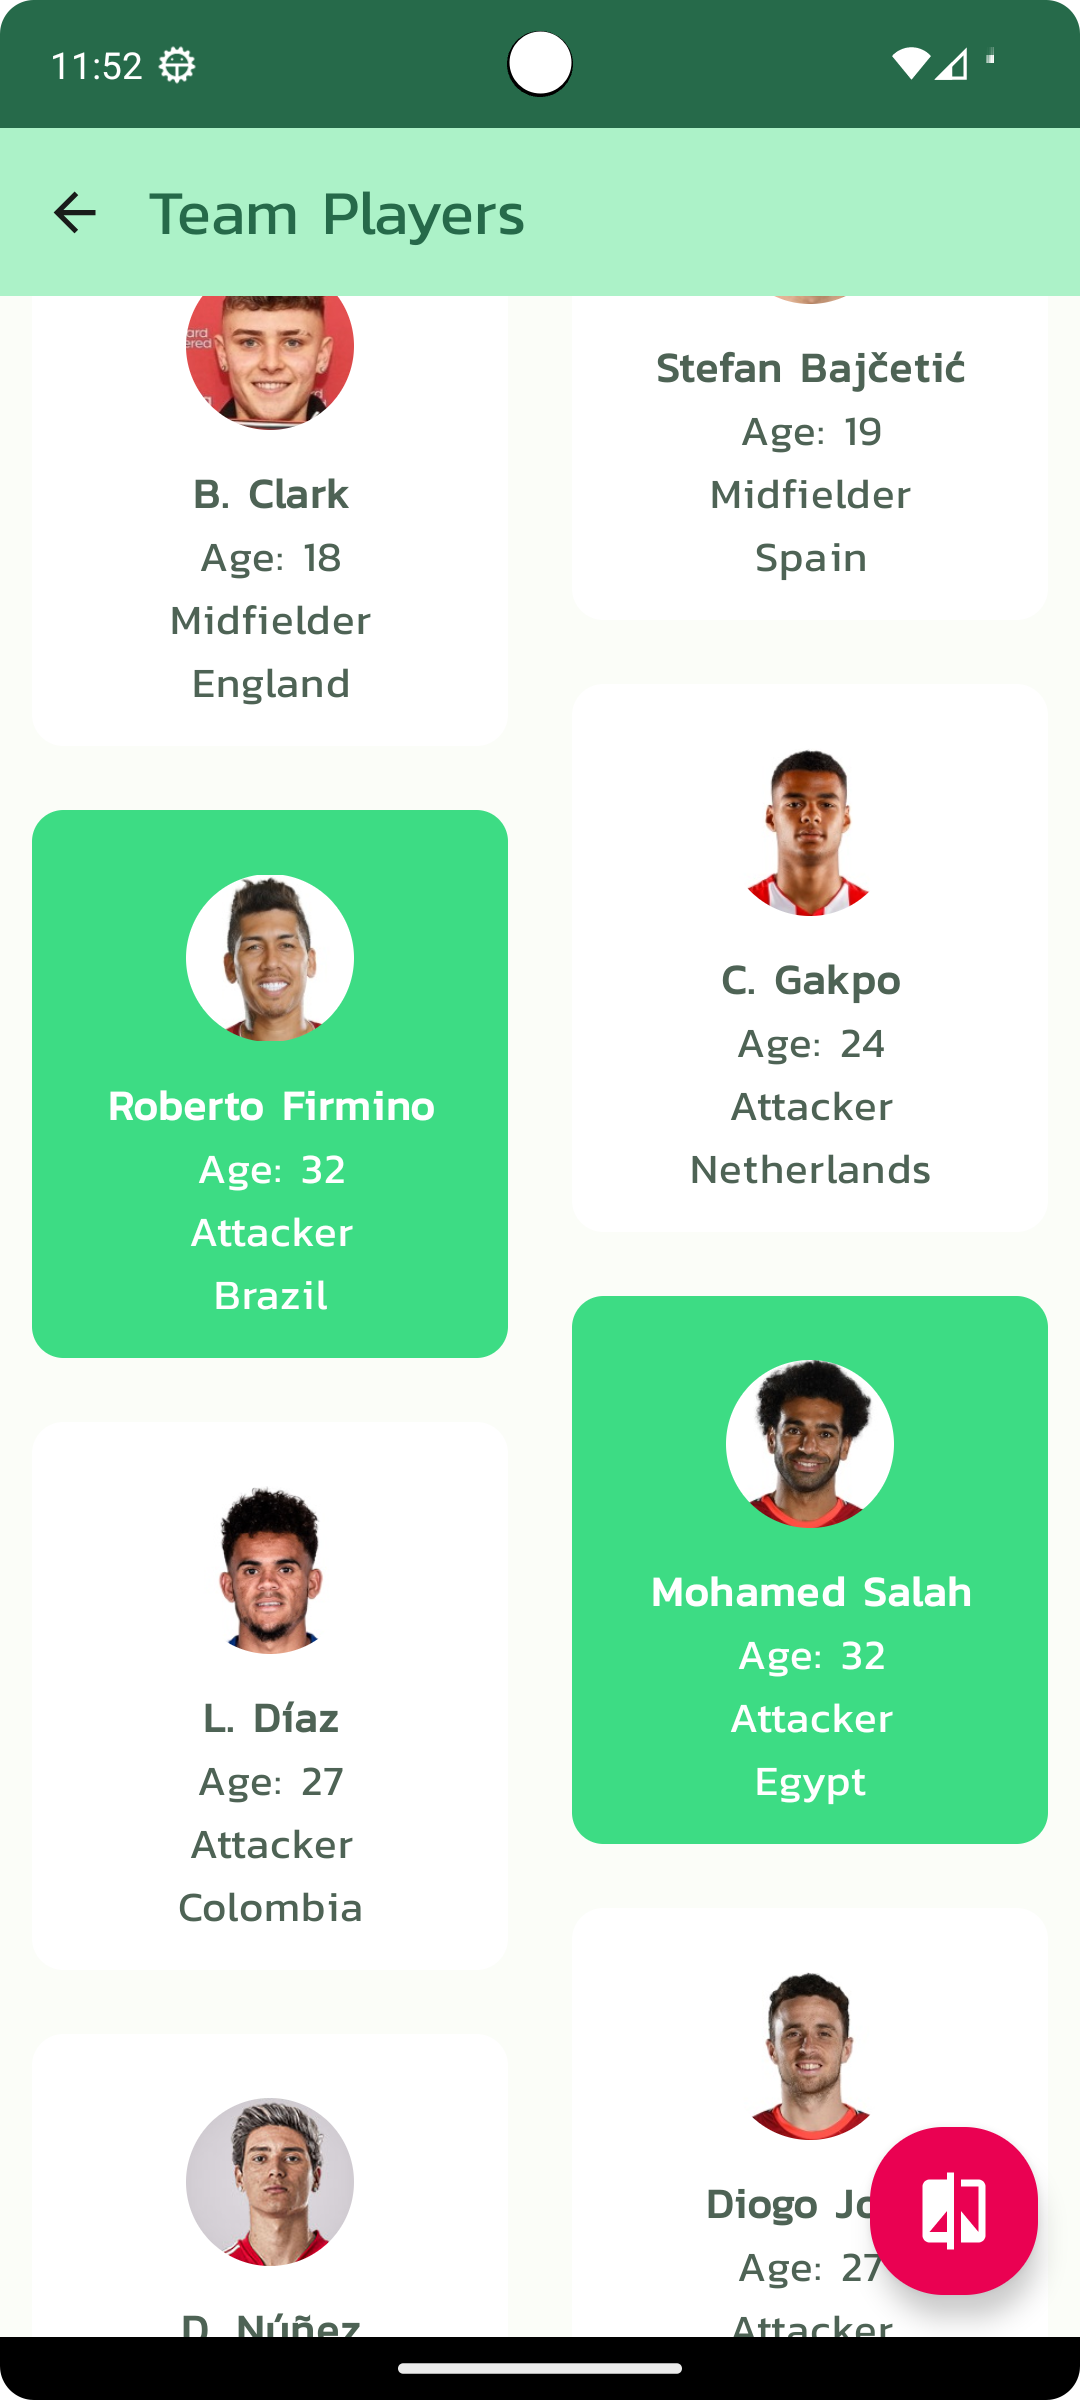
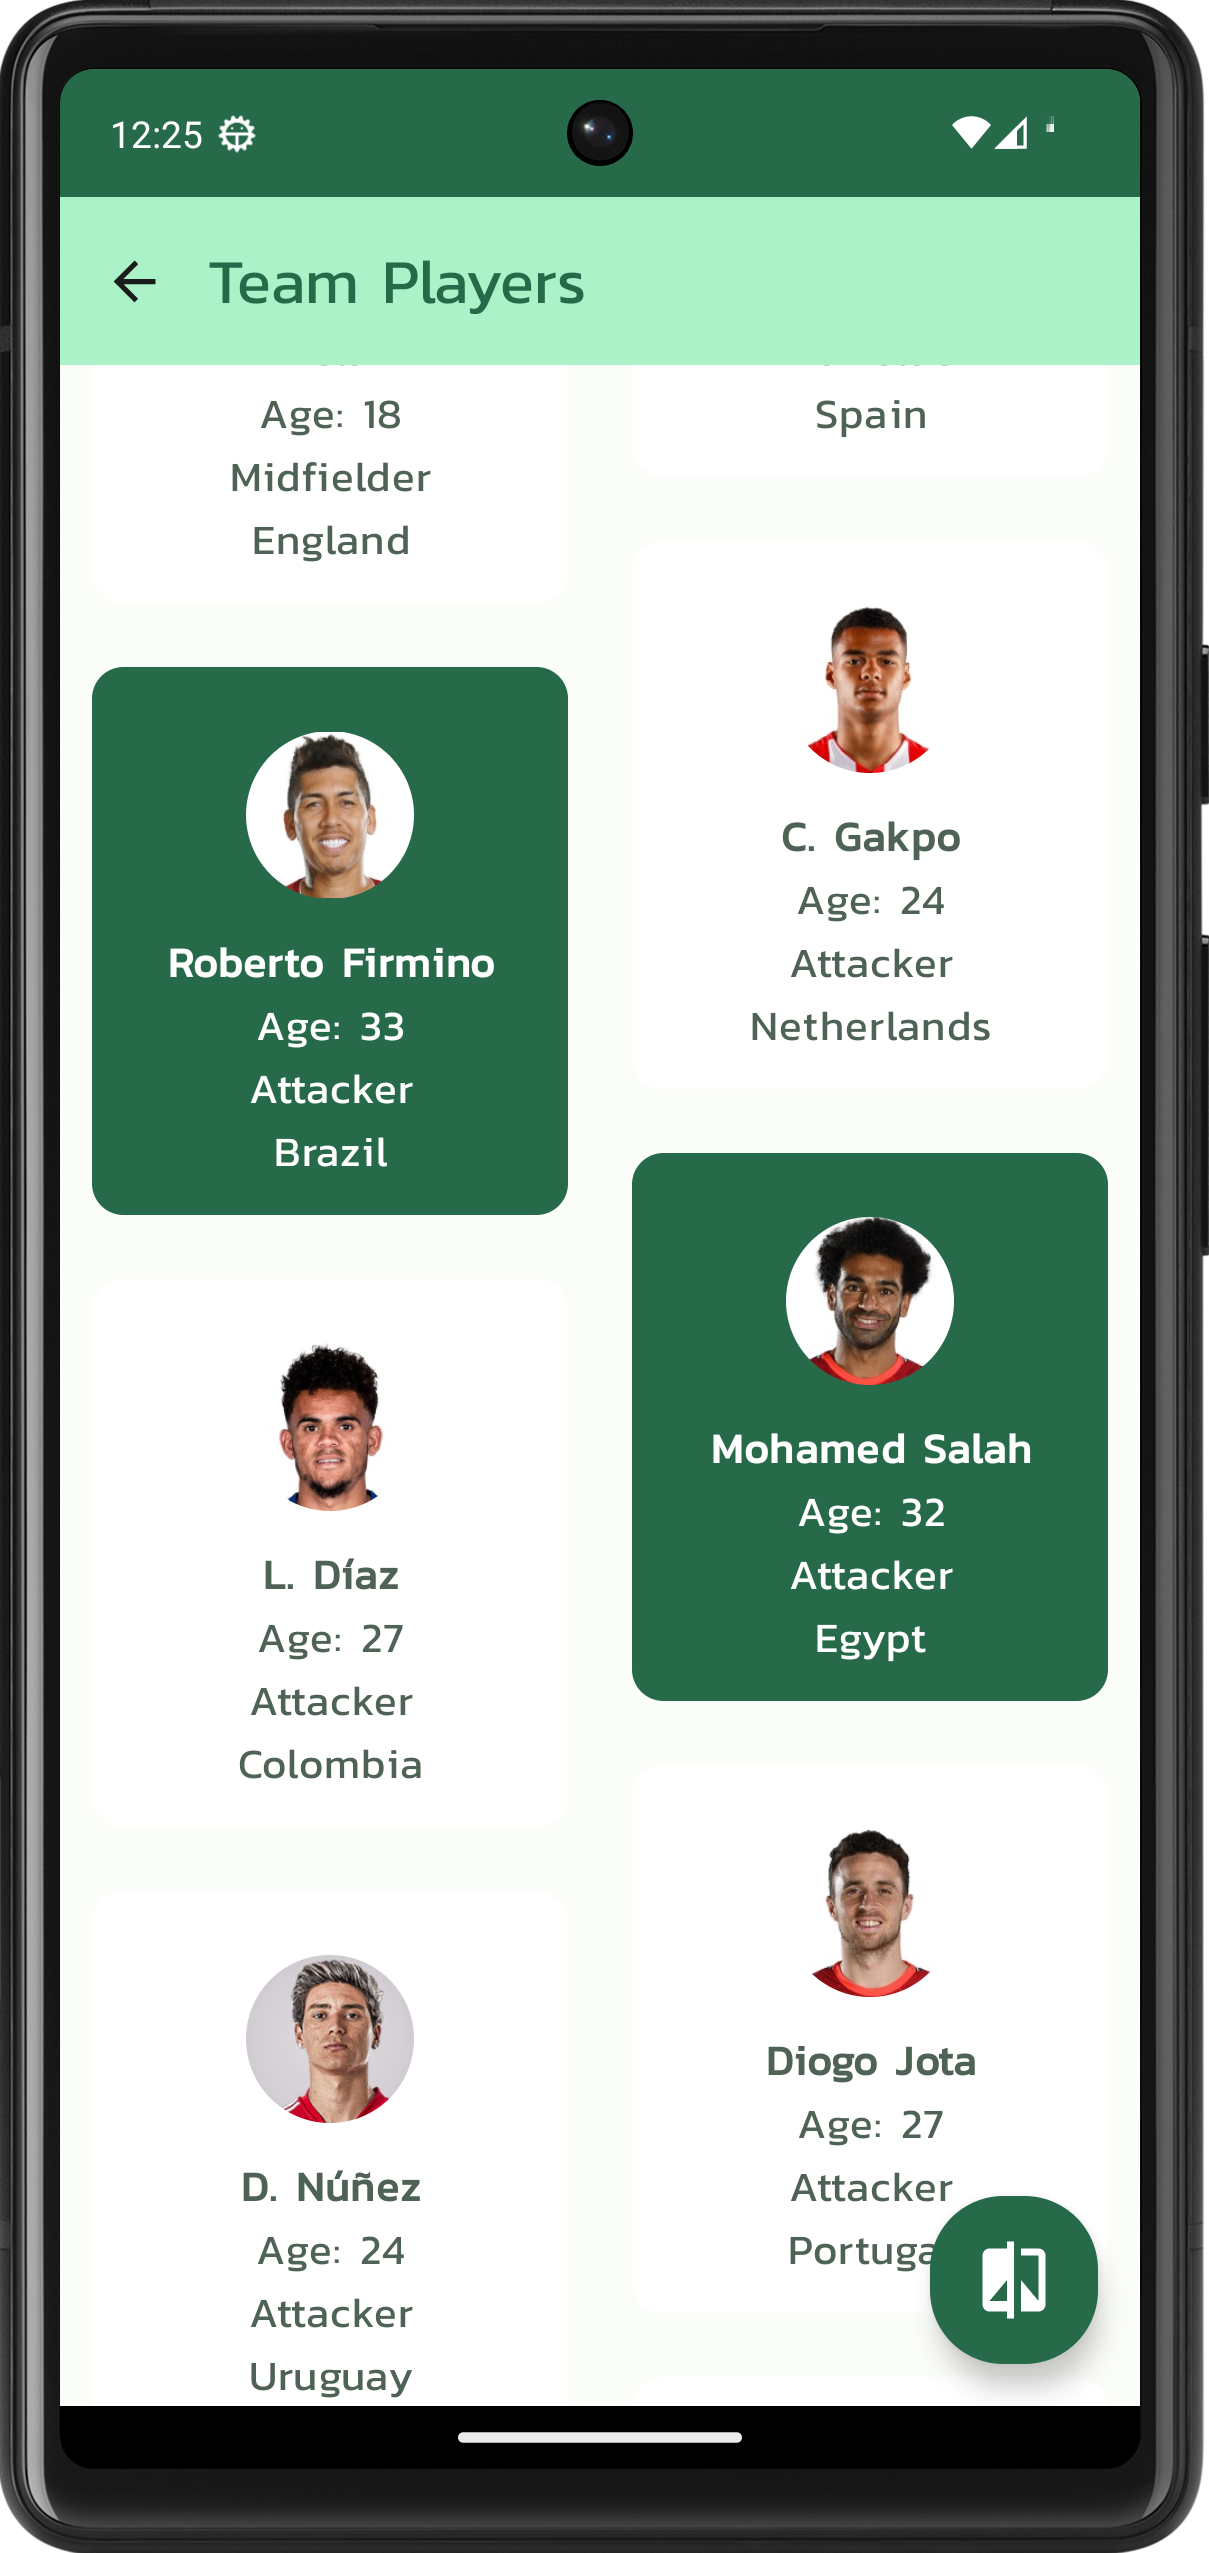
Adjust app for dynamic dark theme support

diff --git a/app/src/main/java/com/smobile/premierleague/ui/team/TeamScreen.kt b/app/src/main/java/com/smobile/premierleague/ui/team/TeamScreen.kt
@@ -18,7 +18,6 @@ import androidx.compose.runtime.remember
 import androidx.compose.runtime.rememberCoroutineScope
 import androidx.compose.ui.Modifier
 import androidx.compose.ui.platform.LocalContext
-import androidx.compose.ui.res.colorResource
 import androidx.compose.ui.res.dimensionResource
 import androidx.compose.ui.res.painterResource
 import androidx.compose.ui.res.stringResource
@@ -28,6 +27,7 @@ import com.smobile.premierleague.model.Player
 import com.smobile.premierleague.ui.common.PlayerCard
 import com.smobile.premierleague.ui.common.PremierLeagueTopAppBar
 import com.smobile.premierleague.ui.common.clickableWithoutIndication
+import com.smobile.premierleague.ui.theme.PremierLeagueTheme
 import kotlinx.coroutines.launch
 import kotlin.random.Random
 
@@ -59,7 +59,7 @@ fun TeamScreen(
                 FloatingActionButton(
                     onClick = onComparePlayersClicked,
                     shape = FloatingActionButtonDefaults.largeShape,
-                    containerColor = colorResource(id = R.color.colorAccent),
+                    containerColor = MaterialTheme.colorScheme.primary,
                     contentColor = MaterialTheme.colorScheme.onPrimary
                 ) {
                     Icon(
@@ -107,9 +107,9 @@ fun TeamScreenPreview() {
     val player = Player(
         1,
         "Player",
-        null,
+        "Defender",
         Random.nextInt(18, 35),
-        null,
+        "Serbian",
         null,
         null,
         Player.Goals(
@@ -128,12 +128,14 @@ fun TeamScreenPreview() {
         null
     )
     val players = generateSequence { player }.take(2).toList()
-    TeamScreen(
-        players = players,
-        playerOne = player,
-        playerTwo = player,
-        onPlayerSelected = {},
-        onComparePlayersClicked = {},
-        onBackNavigation = {}
-    )
+    PremierLeagueTheme {
+        TeamScreen(
+            players = players,
+            playerOne = player,
+            playerTwo = player,
+            onPlayerSelected = {},
+            onComparePlayersClicked = {},
+            onBackNavigation = {}
+        )
+    }
 }

diff --git a/app/src/main/java/com/smobile/premierleague/ui/common/PlayerCard.kt b/app/src/main/java/com/smobile/premierleague/ui/common/PlayerCard.kt
@@ -16,7 +16,6 @@ import androidx.compose.ui.Alignment
 import androidx.compose.ui.Modifier
 import androidx.compose.ui.draw.clip
 import androidx.compose.ui.graphics.Color
-import androidx.compose.ui.res.colorResource
 import androidx.compose.ui.res.dimensionResource
 import androidx.compose.ui.res.painterResource
 import androidx.compose.ui.res.stringResource
@@ -39,9 +38,7 @@ fun PlayerCard(
         modifier = modifier
             .padding(dimensionResource(id = R.dimen.logo_padding)),
         colors = CardDefaults.cardColors(
-            containerColor = colorResource(
-                id = if (selected) R.color.colorBackground else android.R.color.white
-            )
+            containerColor = if (selected) MaterialTheme.colorScheme.primary else MaterialTheme.colorScheme.onPrimary
         )
     ) {
         Column(

diff --git a/app/src/main/java/com/smobile/premierleague/ui/standings/StandingsScreen.kt b/app/src/main/java/com/smobile/premierleague/ui/standings/StandingsScreen.kt
@@ -23,7 +23,6 @@ import androidx.compose.runtime.Composable
 import androidx.compose.runtime.remember
 import androidx.compose.ui.Alignment
 import androidx.compose.ui.Modifier
-import androidx.compose.ui.res.colorResource
 import androidx.compose.ui.res.dimensionResource
 import androidx.compose.ui.res.painterResource
 import androidx.compose.ui.res.stringResource
@@ -54,7 +53,7 @@ fun StandingsScreen(
     ) { innerPadding ->
         Column(Modifier.padding(innerPadding)) {
             HeaderStandingRow()
-            Divider(color = colorResource(id = R.color.divider_color))
+            Divider(color = MaterialTheme.colorScheme.background)
             StandingsList(
                 standings = standings,
                 showSelectedTeam = showSelectedTeam

diff --git a/app/src/main/java/com/smobile/premierleague/ui/settings/SettingsScreen.kt b/app/src/main/java/com/smobile/premierleague/ui/settings/SettingsScreen.kt
@@ -18,7 +18,6 @@ import androidx.compose.runtime.mutableStateOf
 import androidx.compose.runtime.remember
 import androidx.compose.ui.Alignment
 import androidx.compose.ui.Modifier
-import androidx.compose.ui.res.colorResource
 import androidx.compose.ui.res.dimensionResource
 import androidx.compose.ui.res.stringResource
 import androidx.compose.ui.tooling.preview.Preview
@@ -64,9 +63,7 @@ fun SettingsScreen(
                     style = MaterialTheme.typography.titleLarge
                 )
             }
-            Divider(
-                color = colorResource(id = R.color.divider_color)
-            )
+            Divider(color = MaterialTheme.colorScheme.background)
         }
     }
 

diff --git a/README.md b/README.md
@@ -7,11 +7,24 @@ This repository serves as Android project architecture showcase.
 <img src="team-players.png"  width="270" height="606">
 <img src="head-to-head.png"  width="270" height="606">
 </p>
+<p float="left">
+<img src="premier-league-table-dark.png"  width="270" height="606">
+<img src="team-players-dark.png"  width="270" height="606">
+<img src="head-to-head-dark.png"  width="270" height="606">
+</p>
+<p float="left">
+<img src="dev-ribbon.png"  width="270" height="606">
+<img src="settings-dark.png"  width="270" height="606">
+<img src="settings-dark.png"  width="270" height="606">
+</p>
 
-Repository was initially based on the official Android Github Browser Sample with Android Architecture Components:
-https://github.com/android/architecture-components-samples/tree/master/GithubBrowserSample and it is updated to use latest tech stack in Android ecosystem.
+Repository was initially based on the official Android Github Browser Sample with Android
+Architecture Components:
+https://github.com/android/architecture-components-samples/tree/master/GithubBrowserSample and it is
+updated to use latest tech stack in Android ecosystem.
 
 ### Libraries
+
 * [Android Architecture Components][arch]
 * [MVVM architectural pattern][mvvm]
 * [Dependency injection with Hilt][hilt]
@@ -22,12 +35,19 @@ https://github.com/android/architecture-components-samples/tree/master/GithubBro
 * [Coil][coil] for image loading
 
 [arch]: https://developer.android.com/arch
+
 [mvvm]: https://developer.android.com/topic/libraries/architecture/viewmodel
+
 [hilt]: https://developer.android.com/training/dependency-injection/hilt-android
+
 [compose]: https://developer.android.com/jetpack/compose
+
 [material3]: https://m3.material.io/develop/android/mdc-android
+
 [fonts]: https://developer.android.com/develop/ui/views/text-and-emoji/downloadable-fonts
+
 [retrofit]: http://square.github.io/retrofit
+
 [coil]: https://coil-kt.github.io/coil/compose
 
 License
@@ -36,16 +56,16 @@ License
 Copyright 2017 The Android Open Source Project, Inc.
 
 Licensed to the Apache Software Foundation (ASF) under one or more contributor
-license agreements.  See the NOTICE file distributed with this work for
-additional information regarding copyright ownership.  The ASF licenses this
+license agreements. See the NOTICE file distributed with this work for
+additional information regarding copyright ownership. The ASF licenses this
 file to you under the Apache License, Version 2.0 (the "License"); you may not
-use this file except in compliance with the License.  You may obtain a copy of
+use this file except in compliance with the License. You may obtain a copy of
 the License at
 
 http://www.apache.org/licenses/LICENSE-2.0
 
 Unless required by applicable law or agreed to in writing, software
 distributed under the License is distributed on an "AS IS" BASIS, WITHOUT
-WARRANTIES OR CONDITIONS OF ANY KIND, either express or implied.  See the
+WARRANTIES OR CONDITIONS OF ANY KIND, either express or implied. See the
 License for the specific language governing permissions and limitations under
 the License.
